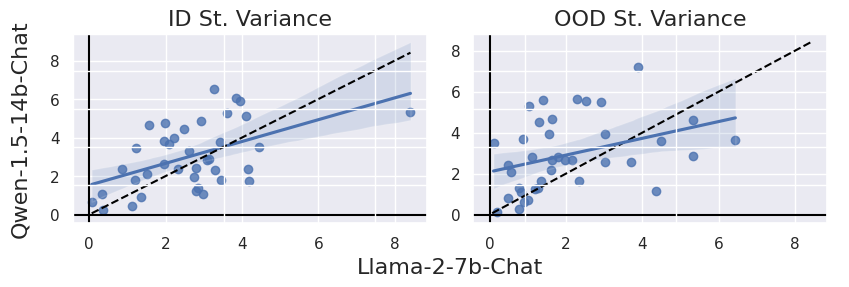
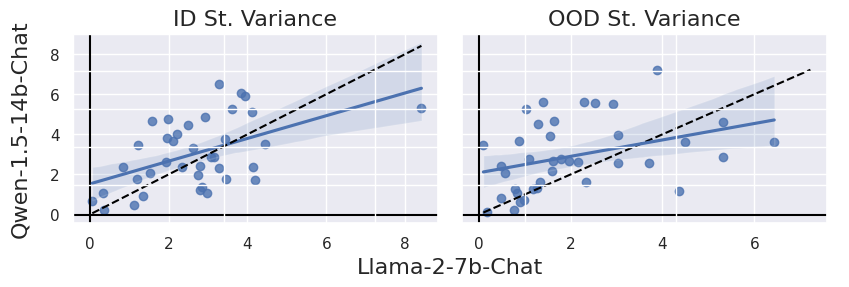
update figures

diff --git a/repepo/paper/make_figures_steering_ood.py b/repepo/paper/make_figures_steering_ood.py
@@ -197,6 +197,8 @@ plot_qwen_and_llama_steerability_iid_vs_od(
 
 # %%
 # Correlate ID and OOD steerability between models
+from scipy.stats import spearmanr
+
 combined_df = llama_steerability_df.merge(qwen_steerability_df, on='dataset_name', suffixes=('_llama7b', '_qwen'))
 plt.rcParams.update({'font.size': 20})
 fig, axs = plt.subplots(nrows = 1, ncols = 2, figsize=(9, 3.5), sharey = True, sharex = True)
@@ -206,6 +208,8 @@ ax = axs[0]
 ax.axhline(0, color='black', linestyle='-')
 ax.axvline(0, color='black', linestyle='-') 
 sns.regplot(data=combined_df, x='BASE -> BASE_llama7b', y='BASE -> BASE_qwen', ax = ax)
+spearman_corr, spearman_p = spearmanr(combined_df['BASE -> BASE_llama7b'], combined_df['BASE -> BASE_qwen'])
+print(f"Spearman correlation for BASE -> BASE: {spearman_corr} (p = {spearman_p})")
 # Draw the x = y dotted line
 x = combined_df['BASE -> BASE_llama7b']
 y = combined_df['BASE -> BASE_qwen']
@@ -231,6 +235,9 @@ ax.plot([min, max], [min, max], color='black', linestyle='--')
 
 
 sns.regplot(data=combined_df, x='SYS_POS -> USER_NEG_llama7b', y='SYS_POS -> USER_NEG_qwen', ax = ax)
+# Print the coefficient 
+spearman_corr, spearman_p = spearmanr(combined_df['SYS_POS -> USER_NEG_llama7b'], combined_df['SYS_POS -> USER_NEG_qwen'])
+print(f"Spearman correlation for SYS_POS -> USER_NEG: {spearman_corr} (p = {spearman_p})")
 ax.set_xlabel('')
 ax.set_ylabel('')
 # ax.set_xlabel('Llama-2-7b-Chat',  fontsize=16)
@@ -357,7 +364,7 @@ def plot_qwen_and_llama_steerability_variance_id_vs_ood(
 ):
 
     plt.rcParams.update({'font.size': 16})
-    fig, axs = plt.subplots(nrows = 1, ncols = 2, figsize=(9, 3.5), sharex = True)
+    fig, axs = plt.subplots(nrows = 1, ncols = 2, figsize=(9, 3.5), sharey = True)
 
     # Axes 
 
@@ -366,6 +373,8 @@ def plot_qwen_and_llama_steerability_variance_id_vs_ood(
     ax.axhline(0, color='black', linestyle='-')
     ax.axvline(0, color='black', linestyle='-') 
     sns.regplot(data=combined_df, x='BASE -> BASE_llama7b', y='BASE -> BASE_qwen', ax = ax)
+    spearman_corr, spearman_p = spearmanr(combined_df['BASE -> BASE_llama7b'], combined_df['BASE -> BASE_qwen'])
+    print(f"Spearman correlation for BASE -> BASE: {spearman_corr} (p = {spearman_p})")
     # Draw the x = y dotted line
     x = combined_df['BASE -> BASE_llama7b']
     y = combined_df['BASE -> BASE_qwen']
@@ -384,13 +393,17 @@ def plot_qwen_and_llama_steerability_variance_id_vs_ood(
     ax.axhline(0, color='black', linestyle='-')
     ax.axvline(0, color='black', linestyle='-') 
     # Draw the x = y dotted line
-    x = combined_df['BASE -> BASE_llama7b']
-    y = combined_df['BASE -> BASE_qwen']
+    x = combined_df['SYS_POS -> USER_NEG_llama7b']
+    y = combined_df['SYS_POS -> USER_NEG_qwen']
     min = x.min() if x.min() < y.min() else y.min()
     max = x.max() if x.max() > y.max() else y.max()
     ax.plot([min, max], [min, max], color='black', linestyle='--')
 
     sns.regplot(data=combined_df, x='SYS_POS -> USER_NEG_llama7b', y='SYS_POS -> USER_NEG_qwen', ax = ax)
+    # Print the coefficient
+    spearman_corr, spearman_p = spearmanr(combined_df['SYS_POS -> USER_NEG_llama7b'], combined_df['SYS_POS -> USER_NEG_qwen'])
+    print(f"Spearman correlation for SYS_POS -> USER_NEG: {spearman_corr} (p = {spearman_p})")
+
     # ax.set_xlabel('Llama-2-7b-Chat', fontsize=16)
     # ax.set_ylabel('Qwen-1.5-14b-Chat', fontsize=16)
     ax.set_xlabel('')
